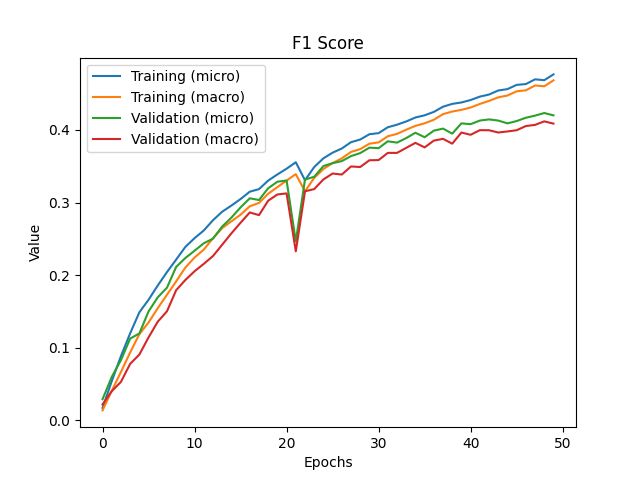
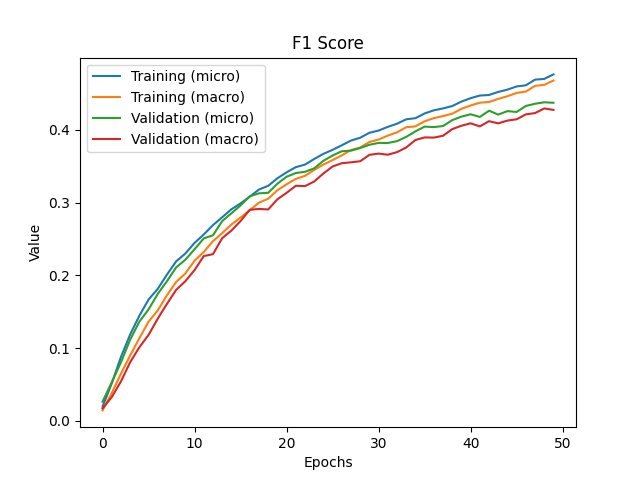
results densenet161 cifar100 non augmented

Changed region(s): [[0.1562, 0.1562, 0.875, 0.8438], [0.0625, 0.7188, 0.0938, 0.75]]

diff --git a/src/main.py b/src/main.py
@@ -144,9 +144,6 @@ def run(
         )
 
 if __name__ == "__main__":
-    run(dataset_name="cifar-100-python", model_name="resnet152", test_models=True)
-    run(dataset_name="cifar-100-python", model_name="densenet161", test_models=True)
-
     run(dataset_name="cifar-100-python", model_name="resnet152", test_models=True, augmented_data=True, explanation_type="self")
     run(dataset_name="cifar-100-python", model_name="densenet161", test_models=True, augmented_data=True, explanation_type="self")
 
